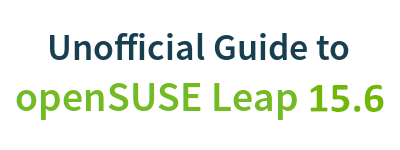
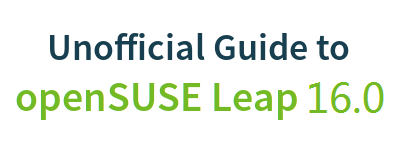
update to 16.0

Changed region(s): [[0.75, 0.5333, 0.96, 0.7733]]

diff --git a/repositories.php b/repositories.php
@@ -46,7 +46,7 @@
 <tr>
 
 <td valign="top" style="padding-top: 5px" width="50%">
-<div class="content-text">最后更新：2025年6月4日</div>
+<div class="content-text">最后更新：2026年6月1日</div>
 </td>
 
 <td align="center" width="50%" valign="top">
@@ -181,7 +181,7 @@ function googleTranslateElementInit() {
 <td><img src="images/pics/obs.png" alt="obs" /></td>
 <td>	添加软件源时要注意： 
 <ul>
-<li>非官方源可能包含一些试验中的不稳定的软件包</li>
+<li>非官方源可能包含一些测试中的不稳定的软件包</li>
 <li>不同的软件源之间并不一定是兼容的</li>
 <li>一个非官方软件源并不是永久稳定且可信的</li>
 <li>过多的软件源将会降低软件包管理器的速度</li>
@@ -193,7 +193,7 @@ function googleTranslateElementInit() {
 </div><br />
 
 
-最简单且最安全的添加软件软件源的方法是让 YaST 自动寻找并添加社区软件源。它会列出一些常用的并且安全的软件源供您选择：
+最简单且最安全的添加软件源的方法是让 YaST 自动寻找并添加社区软件源。它会列出一些常用的并且安全的软件源供您选择：
 <div class="path">YaST => Software（软件） => Software Repositories（软件源） => Click on "Add"（单击“添加”） => Select "Community Repositories" and click "Next"（选择“社区软件源”并点击“下一步”）</div><br />
 
 <center><video src="video/repos114.ogv" controls>  
@@ -264,28 +264,28 @@ function googleTranslateElementInit() {
 <ul>
 
     <li>
-        <b><a href="http://download.opensuse.org/repositories/home:/opensuse_zh/15.6/" target="_blank">
-        http://download.opensuse.org/repositories/home:/opensuse_zh/15.6/
+        <b><a href="http://download.opensuse.org/repositories/home:/opensuse_zh/16.0/" target="_blank">
+        http://download.opensuse.org/repositories/home:/opensuse_zh/16.0/
         </a></b>
     </li>
 
 <!--
     <li>
-        <a href="http://download.opensuse.org/repositories/home:/MargueriteSu/15.6/" target="_blank">
-        http://download.opensuse.org/repositories/home:/MargueriteSu/15.6/
+        <a href="http://download.opensuse.org/repositories/home:/MargueriteSu/16.0/" target="_blank">
+        http://download.opensuse.org/repositories/home:/MargueriteSu/16.0/
         </a>
     </li>
 
     <li>
-        <a href="http://download.opensuse.org/repositories/home:/hillwood/openSUSE_Leap_15.6/" target="_blank">
-        http://download.opensuse.org/repositories/home:/hillwood/openSUSE_Leap_15.6/
+        <a href="http://download.opensuse.org/repositories/home:/hillwood/openSUSE_Leap_16.0/" target="_blank">
+        http://download.opensuse.org/repositories/home:/hillwood/openSUSE_Leap_16.0/
         </a>
     </li>
 --> 
 <!--
     <li>
-        <a href="http://download.opensuse.org/repositories/home:/stecue/openSUSE_15.6/" target="_blank">
-        http://download.opensuse.org/repositories/home:/stecue/openSUSE_15.6/
+        <a href="http://download.opensuse.org/repositories/home:/stecue/openSUSE_16.0/" target="_blank">
+        http://download.opensuse.org/repositories/home:/stecue/openSUSE_16.0/
         </a>
     </li>
 -->
@@ -293,14 +293,14 @@ function googleTranslateElementInit() {
 
 
     <li>
-        <a href="https://mirrors.aliyun.com/packman/suse/openSUSE_Leap_15.6/" target="_blank">
-        https://mirrors.aliyun.com/packman/suse/openSUSE_Leap_15.6/
+        <a href="https://mirrors.aliyun.com/packman/suse/openSUSE_Leap_16.0/" target="_blank">
+        https://mirrors.aliyun.com/packman/suse/openSUSE_Leap_16.0/
         </a>（阿里云Packman源）
     </li>
 
     <li>
-        <a href="http://download.videolan.org/pub/vlc/SuSE/15.6/" target="_blank">
-        http://download.videolan.org/pub/vlc/SuSE/15.6/
+        <a href="http://download.videolan.org/pub/vlc/SuSE/16.0/" target="_blank">
+        http://download.videolan.org/pub/vlc/SuSE/16.0/
         </a>（Videolan 官方源）
     </li>
 </ul>
@@ -342,13 +342,13 @@ function googleTranslateElementInit() {
 <br /><br />
 
 使用命令 <i>zypper addrepo -f [URL] [Alias]</i> （Alias是自己给这个源随便定义的英文名）添加软件源并开启自动刷新，如：
-<div class="clroot">zypper addrepo -f http://ftp.gwdg.de/pub/linux/misc/packman/suse/openSUSE_Leap_15.6/  packman</div><br />
+<div class="clroot">zypper addrepo -f http://ftp.gwdg.de/pub/linux/misc/packman/suse/openSUSE_Leap_16.0/  packman</div><br />
 
 使用命令 <i>zypper modifyrepo -d [URL或者Alias]</i> 禁用一个软件源，如：
 <div class="clroot">zypper modifyrepo -d Packman</div><br />
 
 使用命令 <i>zypper removerepo [URL或者Alias]</i> 删除一个软件源： 
-<div class="clroot">zypper removerepo http://ftp.gwdg.de/pub/linux/misc/packman/suse/openSUSE_Leap_15.6/ </div><br />
+<div class="clroot">zypper removerepo http://ftp.gwdg.de/pub/linux/misc/packman/suse/openSUSE_Leap_16.0/ </div><br />
 
 列出配置的软件源，显示详情（优先级、网址等等）：
 <div class="cl">zypper repos -d</div><br />

diff --git a/acquisition.php b/acquisition.php
@@ -46,7 +46,7 @@
 <tr>
 
 <td valign="top" style="padding-top: 5px" width="50%">
-<div class="content-text">最后更新：2025年6月4日</div>
+<div class="content-text">最后更新：2026年6月1日</div>
 </td>
 
 <td align="center" width="50%" valign="top">
@@ -146,9 +146,9 @@ function googleTranslateElementInit() {
 
 <br /><br />
 
-<div align="center" class="content-title">openSUSE 15.6 coming soon:</div><br />
+<div align="center" class="content-title">openSUSE 16.0 coming soon:</div><br />
 
-<center><a href="http://en.opensuse.org/Portal:15.6"><img src="http://counter.opensuse.org/15.6/small" border="0" alt="countdown" /></a></center><br />
+<center><a href="http://en.opensuse.org/Portal:16.0"><img src="http://counter.opensuse.org/16.0/small" border="0" alt="countdown" /></a></center><br />
 -->
 
 </div>
@@ -168,19 +168,25 @@ DVD 完全版（4.7GB）提供最流畅和最完整的用户体验，
 
 <br /><br /> 
 在国内可以通过网易、清华和中国科学技术大学的镜像下载：<br />
-<a href="http://mirrors.163.com/openSUSE/distribution/leap/15.6/iso/" target="_blank">http://mirrors.163.com/openSUSE/distribution/leap/15.6/iso/
+<a href="http://mirrors.163.com/openSUSE/distribution/leap/16.0/iso/" target="_blank">http://mirrors.163.com/openSUSE/distribution/leap/16.0/iso/
 </a><br />
 
-<a href="http://mirrors.tuna.tsinghua.edu.cn/opensuse/distribution/leap/15.6/iso/" target="_blank">http://mirrors.tuna.tsinghua.edu.cn/opensuse/distribution/leap/15.6/iso/
+<a href="http://mirrors.tuna.tsinghua.edu.cn/opensuse/distribution/leap/16.0/iso/" target="_blank">http://mirrors.tuna.tsinghua.edu.cn/opensuse/distribution/leap/16.0/iso/
 </a><br />
 
-<a href="http://mirrors.ustc.edu.cn/opensuse/distribution/leap/15.6/iso/" target="_blank">http://mirrors.ustc.edu.cn/opensuse/distribution/leap/15.6/iso/
+<a href="http://mirrors.ustc.edu.cn/opensuse/distribution/leap/16.0/iso/" target="_blank">http://mirrors.ustc.edu.cn/opensuse/distribution/leap/16.0/iso/
 </a><br />
 
 安装到硬盘或虚拟机的话，下载<br />
-<b>openSUSE-Leap-15.6-DVD-x86_64-Media.iso </b>。<br />
+<b>Leap-16.0-offline-installer-x86_64.install.iso </b>。<br />
 其他所有的ISO文件基本可以无视，别下载错了哦！<br />
 注：因为最新的 openSUSE Leap 使用企业版内核，所以目前全部是 64 位的系统。
+<br /><br />
+这里解释一下安装盘 ISO 文件命名规则，Leap-16.0 就是指 openSUSE Leap 16.0 版本；<br>
+offline 是指离线版大容量安装盘，如果是 online 就代表需要网络安装的较小 ISO 文件，一般直接下载离线版的大容量 ISO 文件；<br>
+x86_64 是指 Intel/AMD 等 x86_64 架构处理器，而 aarch64 代表高通、苹果、联发科等 ARM 64 位处理器。
+市面上大部分办公电脑都是 Intel/AMD 处理器，所以选择 x86_64 的安装盘 ISO 文件。
+
 <br /><br />
 
 <div class="heading2">3.2 购买便宜的非官方安装介质</div>
@@ -222,8 +228,8 @@ DVD 完全版（4.7GB）提供最流畅和最完整的用户体验，
 <div class="heading2">3.5 源代码</div>
 从这可以找到openSUSE中的所有开源软件的源代码，均以 RPM 文件的形式提供：
 <br />
-<a href="http://download.opensuse.org/source/distribution/leap/15.6/repo/oss/src/" target="_blank">
-http://download.opensuse.org/source/distribution/leap/15.6/repo/oss/src/</a>
+<a href="http://download.opensuse.org/source/distribution/leap/16.0/repo/oss/src/" target="_blank">
+http://download.opensuse.org/source/distribution/leap/16.0/repo/oss/src/</a>
 
 
 <br /><br />

diff --git a/codecs.php b/codecs.php
@@ -46,7 +46,7 @@
 <tr>
 
 <td valign="top" style="padding-top: 5px" width="50%">
-<div class="content-text">最后更新：2025年6月4日</div>
+<div class="content-text">最后更新：2026年6月1日</div>
 </td>
 
 <td align="center" width="50%" valign="top">
@@ -170,10 +170,14 @@ function googleTranslateElementInit() {
 1）点击下面按钮，即可一键安装多媒体编解码器。
 <br /><br />
 
-<center><a href="https://opensuse-community.org/codecs-kde.ymp"><img src="images/oneclick/codec-kde.png" alt="ymp" class="pic" />
+
+<center><a href="https://download.videolan.org/pub/vlc/SuSE/16.0/vlc.ymp"><img src="images/oneclick/oneclick-vlc.png" alt="VLC-ymp" class="pic" />
 </a></center><br />
 
-<center><a href="https://opensuse-community.org/codecs-gnome.ymp"><img src="images/oneclick/codec-gnome.png" alt="ymp" class="pic" />
+<center><a href="https://opensuse-community.org/codecs-kde.ymp"><img src="images/oneclick/codec-kde.png" alt="KDE-ymp" class="pic" />
+</a></center><br />
+
+<center><a href="https://opensuse-community.org/codecs-gnome.ymp"><img src="images/oneclick/codec-gnome.png" alt="GNAME-ymp" class="pic" />
 </a></center><br />
 
 <div class="tip">
@@ -205,8 +209,8 @@ function googleTranslateElementInit() {
 另外说明一下，Packman源上还有经典的音频视频播放器，如 Audacious、MPlayer、SMPlayer等，还有XVID、VLC、w32codec等很多很好的编解码器，可以一起安装。还有些游戏等，资源很丰富，建议多看看。
 <br />
 另外推荐Videolan官方源：<br />
-<a href="http://download.videolan.org/pub/vlc/SuSE/15.6/" target="_blank">
-    http://download.videolan.org/pub/vlc/SuSE/15.6/
+<a href="http://download.videolan.org/pub/vlc/SuSE/16.0/" target="_blank">
+    http://download.videolan.org/pub/vlc/SuSE/16.0/
 </a>
 
 <br/><br/>
@@ -227,15 +231,15 @@ function googleTranslateElementInit() {
 </div><br />
 
 1) 添加必需的软件源： 
-<div class="clroot">zypper addrepo -f http://ftp.gwdg.de/pub/linux/misc/packman/suse/openSUSE_Leap_15.6/ packman</div>
-<div class="clroot">zypper addrepo -f http://opensuse-guide.org/repo/openSUSE_Leap_15.6/ dvd</div>
+<div class="clroot">zypper addrepo -f http://ftp.gwdg.de/pub/linux/misc/packman/suse/openSUSE_Leap_16.0/ packman</div>
+<div class="clroot">zypper addrepo -f http://opensuse-guide.org/repo/openSUSE_Leap_16.0/ dvd</div>
 <br />
 
 2) 然后安装必需的软件包： 
 <div class="clroot">zypper install --allow-vendor-change ffmpeg-4 lame gstreamer-plugins-bad gstreamer-plugins-ugly gstreamer-plugins-ugly-orig-addon gstreamer-plugins-libav libavdevice57 libdvdcss2 vlc-codecs</div><br />
 
 3) 执行如下命令确保您的多媒体软件包都是来自 Packman 软件源：
-<div class="clroot">zypper dup --allow-vendor-change --from http://ftp.gwdg.de/pub/linux/misc/packman/suse/openSUSE_Leap_15.6/</div>
+<div class="clroot">zypper dup --allow-vendor-change --from http://ftp.gwdg.de/pub/linux/misc/packman/suse/openSUSE_Leap_16.0/</div>
 <br /><br />
 
 openSUSE社区的关于支持多媒体格式和常用一键安装的指南：<br />

diff --git a/apps.php b/apps.php
@@ -46,7 +46,7 @@
 <tr>
 
 <td valign="top" style="padding-top: 5px" width="50%">
-<div class="content-text">最后更新：2025年6月4日</div>
+<div class="content-text">最后更新：2026年6月1日</div>
 </td>
 
 <td align="center" width="50%" valign="top">
@@ -310,7 +310,7 @@ K3b 是一个功能强大的烧录软件，可以刻录各种CD和DVD。<br /><b
 
 <div class="heading2">6.7 gcc、make与开发环境</div>
 默认情况下 openSUSE 不会安装gcc和make等开发环境，所以需要编译代码和开发软件的话，
-必须自己安装。使用root权限，C/C++/Qt 开发环境安装执行命令：
+必须自己安装。使用root权限，C/C++/Qt4 开发环境安装执行命令：
 <div class="clroot">zypper install  bison ccache flex gcc gcc-c++ gcc-java   gcc-info  zlib-devel  nasm   boost-devel  gsl-devel  sqlite3-devel  libqt4-devel  libqt4-devel-doc  cmake cmake-gui  autoconf  autogen  automake  automoc4   make   qt-creator   git  mercurial </div><br />
  zypper 是 openSUSE 的统一软件管理命令行工具，
 与 Ubuntu 的 apt-get 、Fedora 的 yum 完全类似，很容易使用。

diff --git a/3d.php b/3d.php
@@ -46,7 +46,7 @@
 <tr>
 
 <td valign="top" style="padding-top: 5px" width="50%">
-<div class="content-text">最后更新：2025年6月4日</div>
+<div class="content-text">最后更新：2026年6月1日</div>
 </td>
 
 <td align="center" width="50%" valign="top">
@@ -234,10 +234,10 @@ https://en.opensuse.org/SDB:NVIDIA_drivers
 <br /><br />
 
 首先添加如下软件源：
-<div class="clroot">zypper addrepo -f https://download.nvidia.com/opensuse/leap/15.6 nvidia</div><br />
+<div class="clroot">zypper addrepo -f https://download.nvidia.com/opensuse/leap/16.0 nvidia</div><br />
 
 然后执行如下智能安装命令：
-<div class="clroot">zypper install-new-recommends  --repo  https://download.nvidia.com/opensuse/leap/15.6</div><br />
+<div class="clroot">zypper install-new-recommends  --repo  https://download.nvidia.com/opensuse/leap/16.0</div><br />
 
 安装完之后重启。<br /><br />
 

diff --git a/license.php b/license.php
@@ -46,7 +46,7 @@
 <tr>
 
 <td valign="top" style="padding-top: 5px" width="50%">
-<div class="content-text">最后更新：2025年6月4日</div>
+<div class="content-text">最后更新：2026年6月1日</div>
 </td>
 
 <td align="center" width="50%" valign="top">
@@ -165,7 +165,7 @@ function googleTranslateElementInit() {
 	</tr>
 </table>
 <hr align="center" width="99%" />
-<b>中文译本版权 © 2025 Libitum Wang, Winland Yang</b> <br />
+<b>中文译本版权 © 2026 Libitum Wang, Winland Yang</b> <br />
 在GNU自由文档许可证1.3版本或自由软件基金会发布的后续版本的条款之下，
 授权复制、分发和/或修改本文档，不带恒常章节、前封面文字和后封面文字。
 许可证的副本已包含在题为“GNU自由文档许可证”（"GNU Free Documentation License"）的章节里。<br />

diff --git a/games.php b/games.php
@@ -46,7 +46,7 @@
 <tr>
 
 <td valign="top" style="padding-top: 5px" width="50%">
-<div class="content-text">最后更新：2025年6月4日</div>
+<div class="content-text">最后更新：2026年6月1日</div>
 </td>
 
 <td align="center" width="50%" valign="top">
@@ -171,7 +171,7 @@ function googleTranslateElementInit() {
   <a href="repositories.php">软件源</a> 章节所述。<br /><br />
 
 或者使用命令行添加游戏源：
-<div class="clroot">zypper addrepo -f http://download.opensuse.org/repositories/games/openSUSE_Leap_15.6/ games</div><br />
+<div class="clroot">zypper addrepo -f http://download.opensuse.org/repositories/games/16.0/ games</div><br />
 
 <div class="heading3">B.1.2 Steam 游戏平台和商店</div>
 Steam游戏平台已经发布Linux版本，并已经在Linux启用如

diff --git a/contribute.php b/contribute.php
@@ -46,7 +46,7 @@
 <tr>
 
 <td valign="top" style="padding-top: 5px" width="50%">
-<div class="content-text">最后更新：2025年6月4日</div>
+<div class="content-text">最后更新：2026年6月1日</div>
 </td>
 
 <td align="center" width="50%" valign="top">
@@ -173,8 +173,11 @@ openSUSE开放开发的，任何人都可以加入——这意味着您可以帮
 <div class="heading2">F.1 取得联系</div>
 
 参与的第一步是追随新闻和去了解社区。
+<br />
+<a href="https://www.suse.org.cn/" target="_blank"><b>https://www.suse.org.cn/    (全新的中文社区)</b></a>
+<br />
+<a href="http://forum.suse.org.cn/" target="_blank"><b>https://forum.suse.org.cn/    (全新的中文论坛)</b></a>
 <br /><br />
-
 
 <div class="heading3">F.1.1 新闻和博客</div>
 

diff --git a/browserplugins.php b/browserplugins.php
@@ -46,7 +46,7 @@
 <tr>
 
 <td valign="top" style="padding-top: 5px" width="50%">
-<div class="content-text">最后更新：2022年3月22日</div>
+<div class="content-text">最后更新：2026年6月1日</div>
 </td>
 
 <td align="center" width="50%" valign="top">

diff --git a/command.php b/command.php
@@ -46,7 +46,7 @@
 <tr>
 
 <td valign="top" style="padding-top: 5px" width="50%">
-<div class="content-text">最后更新：2025年6月4日</div>
+<div class="content-text">最后更新：2026年6月1日</div>
 </td>
 
 <td align="center" width="50%" valign="top">

diff --git a/help.php b/help.php
@@ -46,7 +46,7 @@
 <tr>
 
 <td valign="top" style="padding-top: 5px" width="50%">
-<div class="content-text">最后更新：2025年6月4日</div>
+<div class="content-text">最后更新：2026年6月1日</div>
 </td>
 
 <td align="center" width="50%" valign="top">
